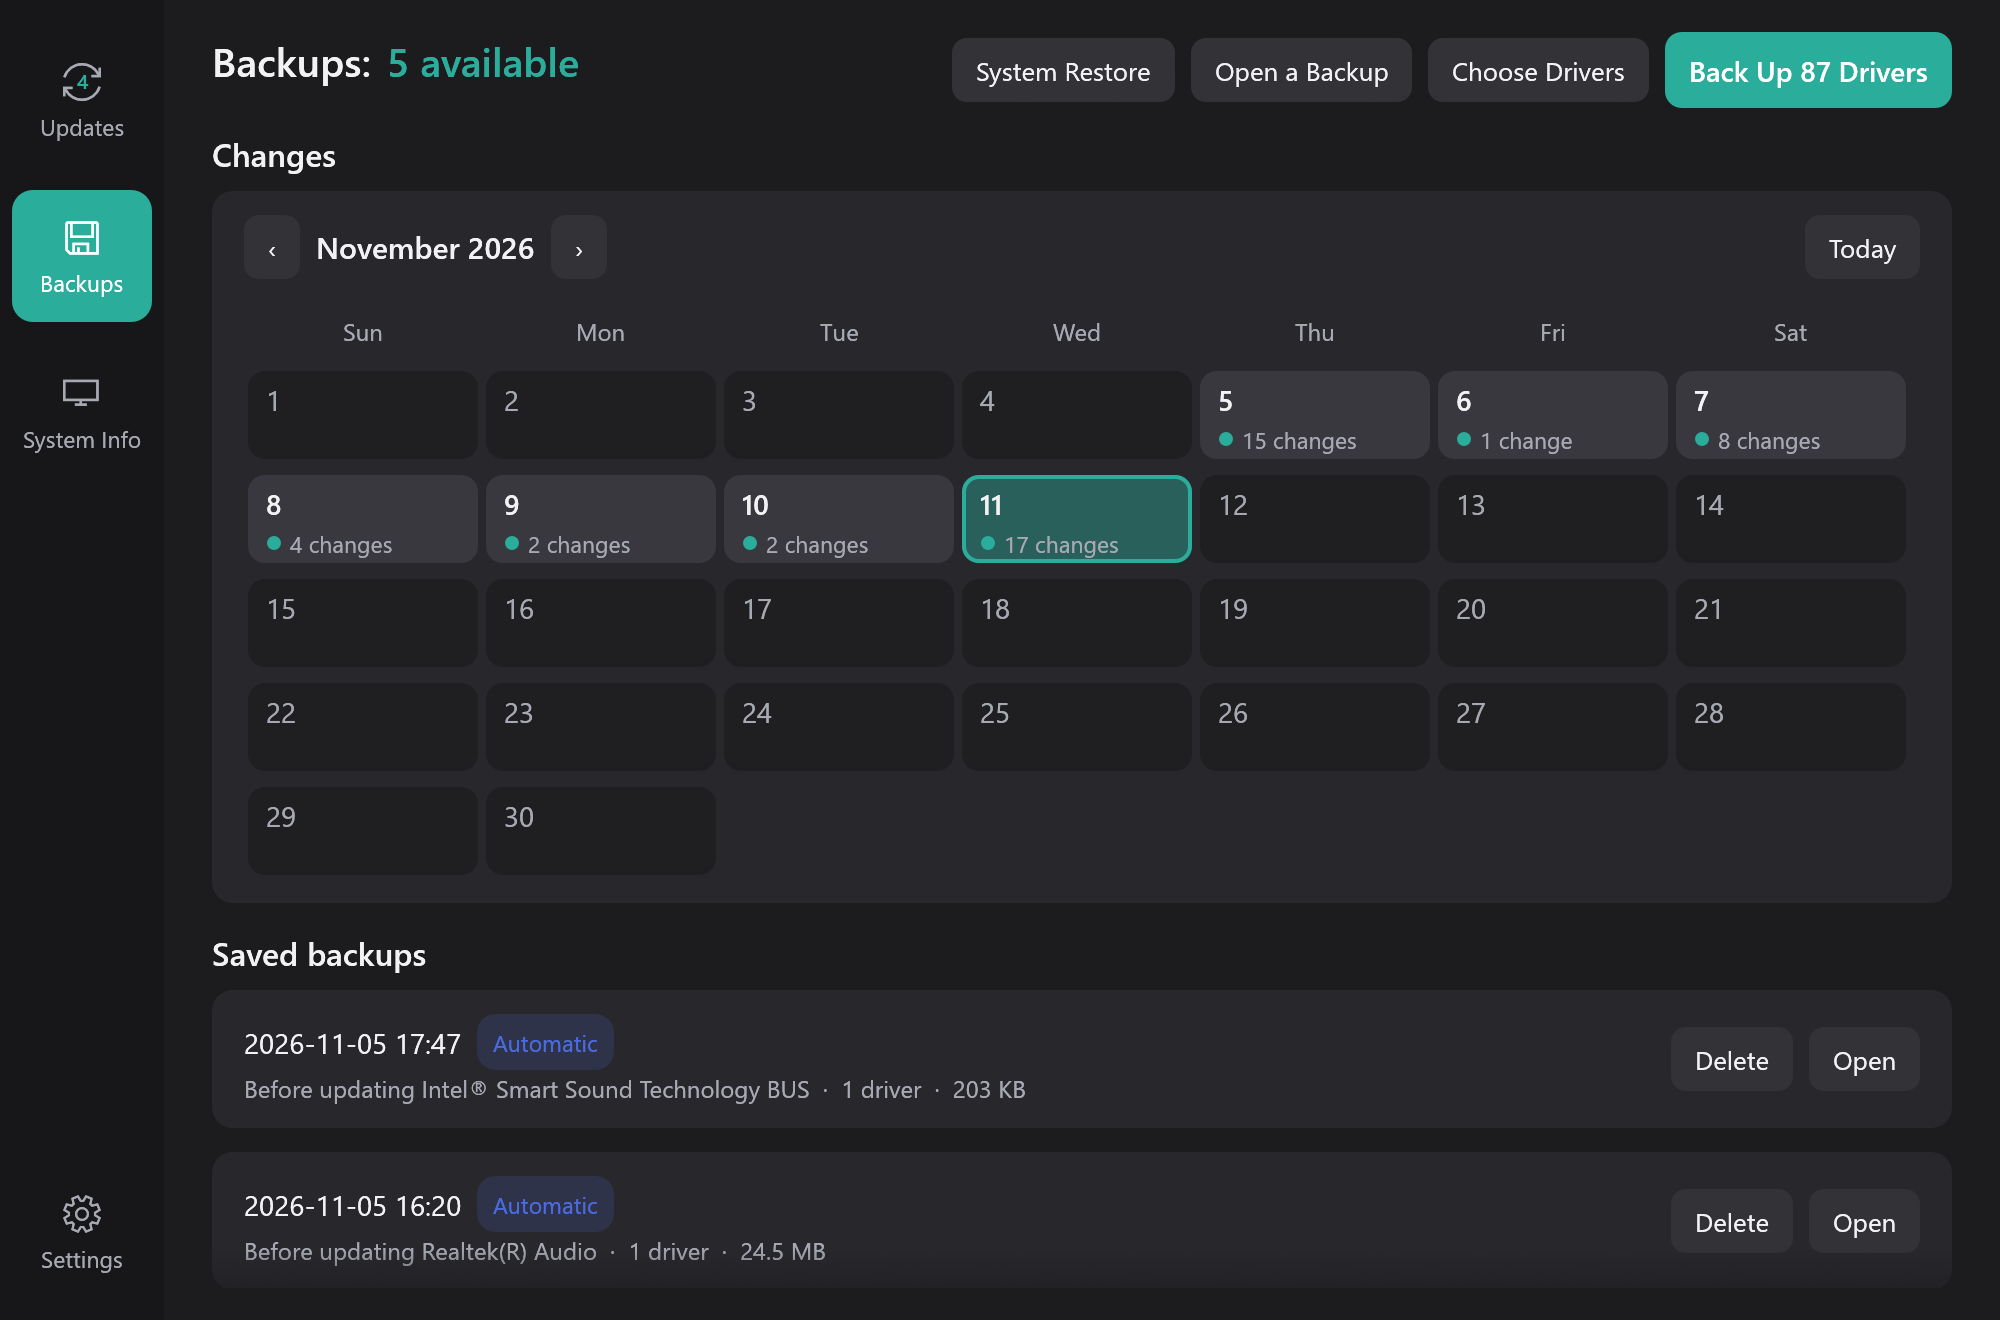
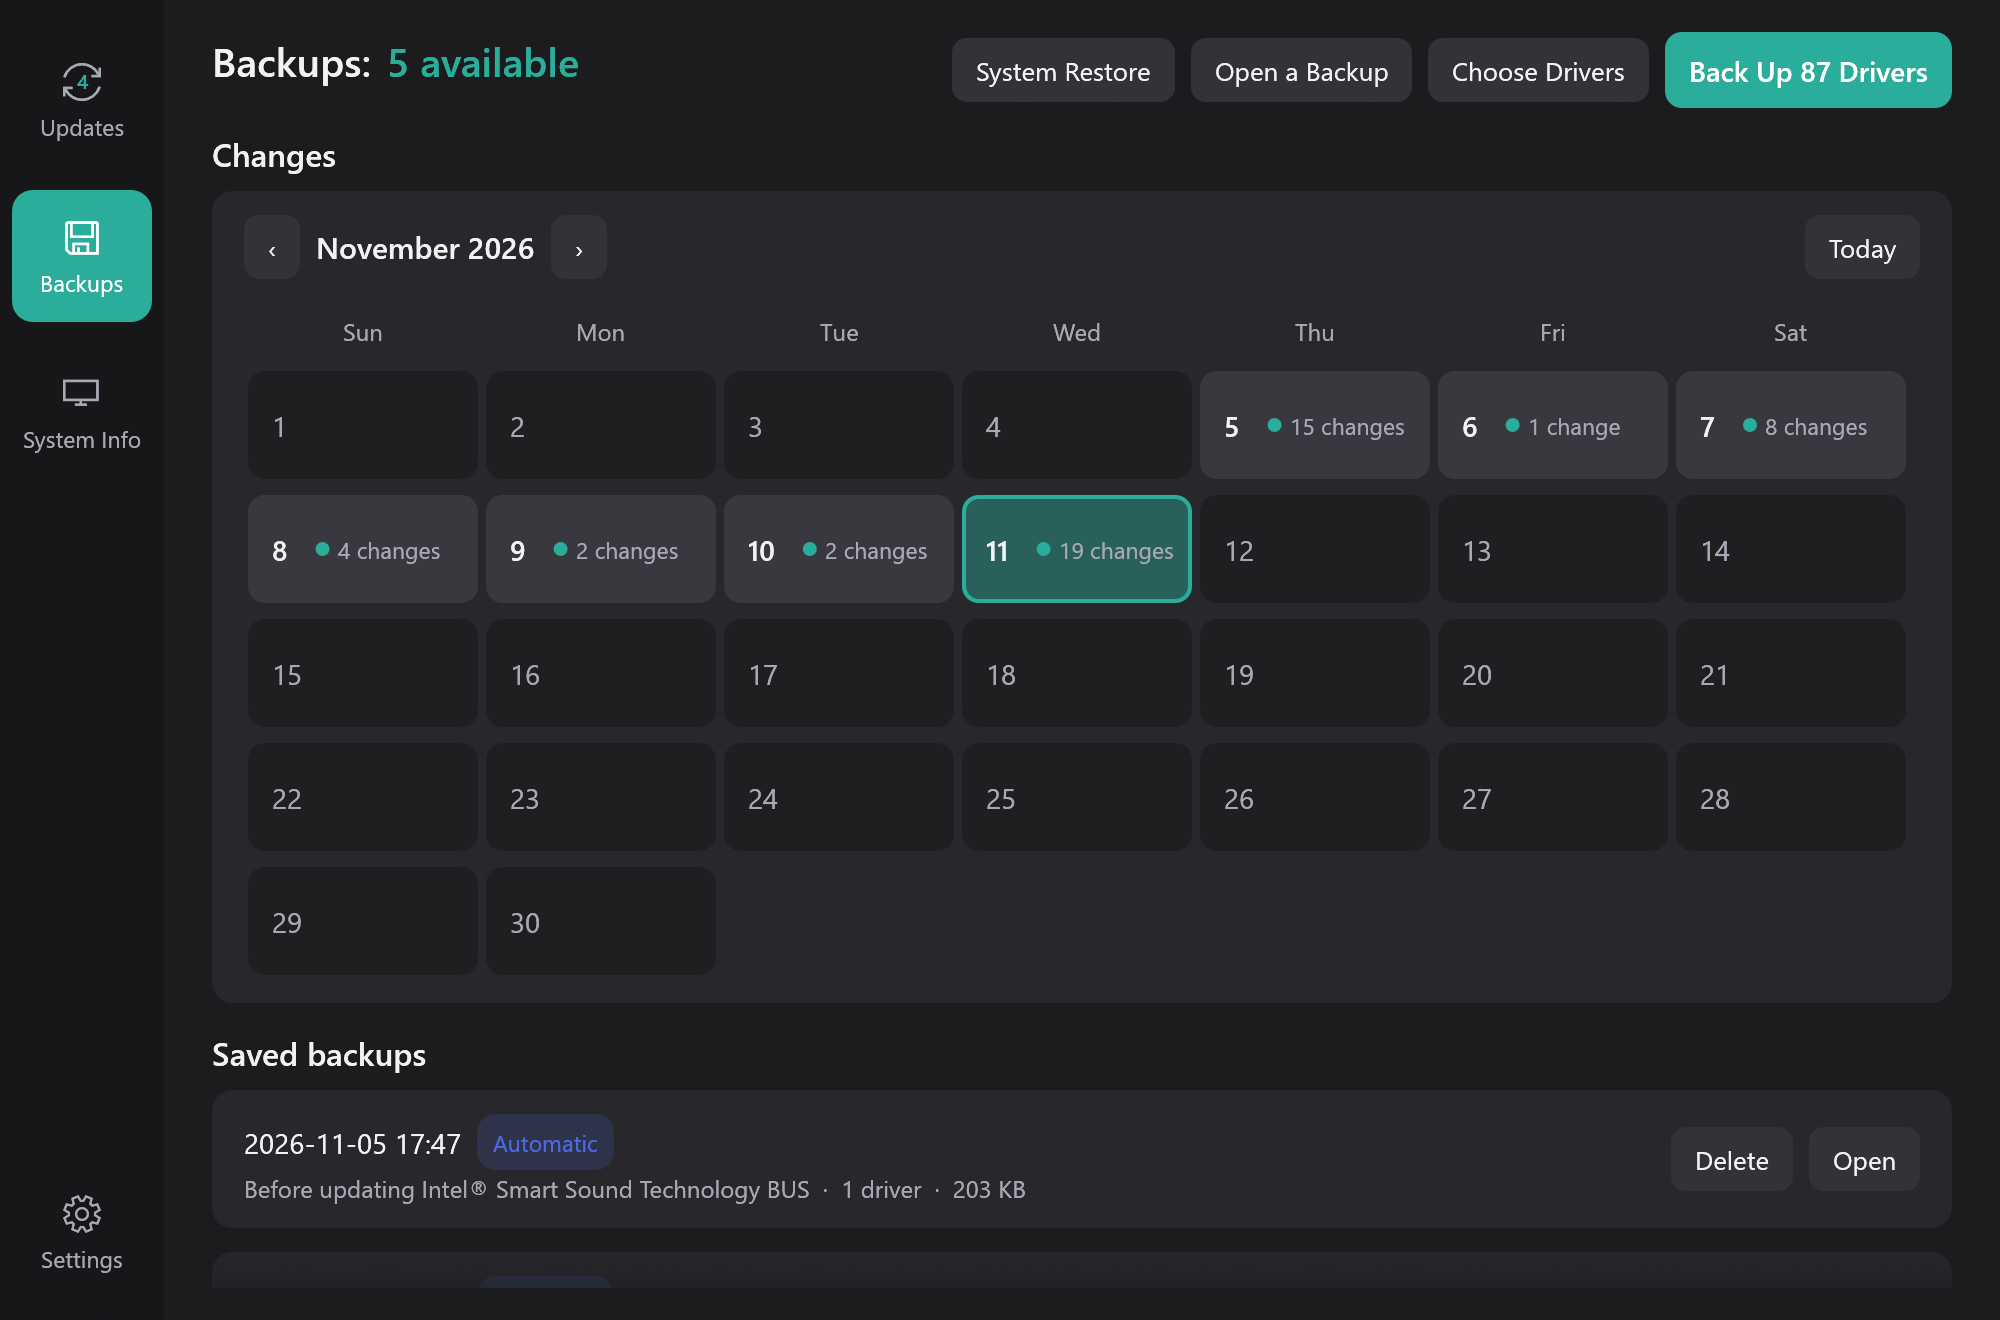
DriverKeep 1.0.22: roomier backups calendar with number and count on one line

diff --git a/src/ui/backups_page.rs b/src/ui/backups_page.rs
@@ -201,7 +201,7 @@ impl App {
                     ui.spacing_mut().item_spacing.x = 0.0;
                     for column in 0..7 {
                         let slot = week * 7 + column;
-                        let (rect, response) = ui.allocate_exact_size(Vec2::new(cell_w, 48.0), Sense::click());
+                        let (rect, response) = ui.allocate_exact_size(Vec2::new(cell_w, 58.0), Sense::click());
                         if slot < lead || slot >= lead + days_in {
                             continue;
                         }
@@ -227,21 +227,30 @@ impl App {
                         }
                         let number_font = if changes > 0 { bold(14.0) } else { FontId::proportional(14.0) };
                         let number_color = if changes > 0 || picked { p.text } else { p.soft };
-                        painter.text(
-                            inner.left_top() + Vec2::new(9.0, 5.0),
-                            Align2::LEFT_TOP,
+                        // The date number and the change count share one line, centered in the day,
+                        // with a clear gap between them.
+                        let middle = inner.left_center();
+                        let number_box = painter.text(
+                            middle + Vec2::new(12.0, 0.0),
+                            Align2::LEFT_CENTER,
                             day.day().to_string(),
                             number_font,
                             number_color,
                         );
                         if changes > 0 {
-                            let text = format!("{changes} change{}", plural(changes));
-                            painter.circle_filled(inner.left_bottom() + Vec2::new(13.0, -10.0), 3.5, teal());
+                            let small_font = FontId::proportional(11.5);
+                            let full = format!("{changes} change{}", plural(changes));
+                            let start = number_box.right() + 14.0;
+                            let room = inner.right() - 8.0 - (start + 11.0);
+                            // In a narrow window the word is dropped and just the number stays.
+                            let width = painter.layout_no_wrap(full.clone(), small_font.clone(), p.soft).size().x;
+                            let text = if width <= room { full } else { changes.to_string() };
+                            painter.circle_filled(egui::pos2(start + 3.5, middle.y), 3.5, teal());
                             painter.text(
-                                inner.left_bottom() + Vec2::new(21.0, -10.0),
+                                egui::pos2(start + 11.0, middle.y),
                                 Align2::LEFT_CENTER,
                                 text,
-                                FontId::proportional(11.5),
+                                small_font,
                                 p.soft,
                             );
                         }
